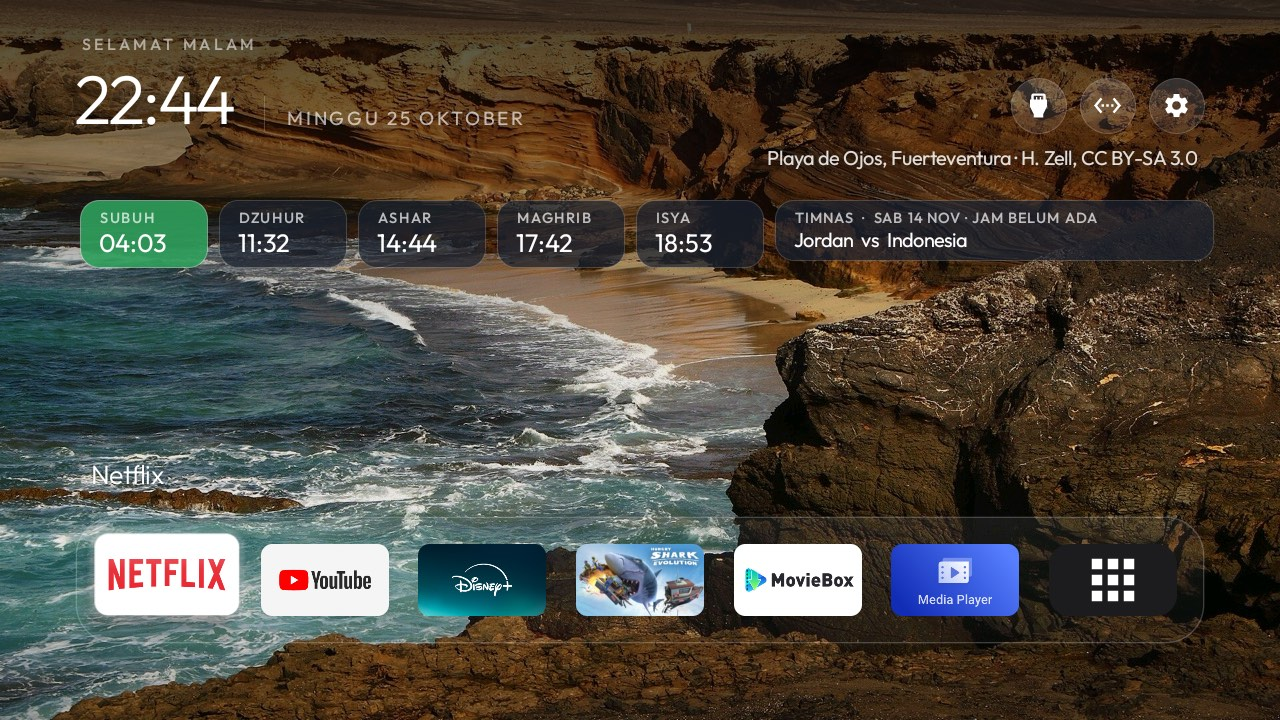
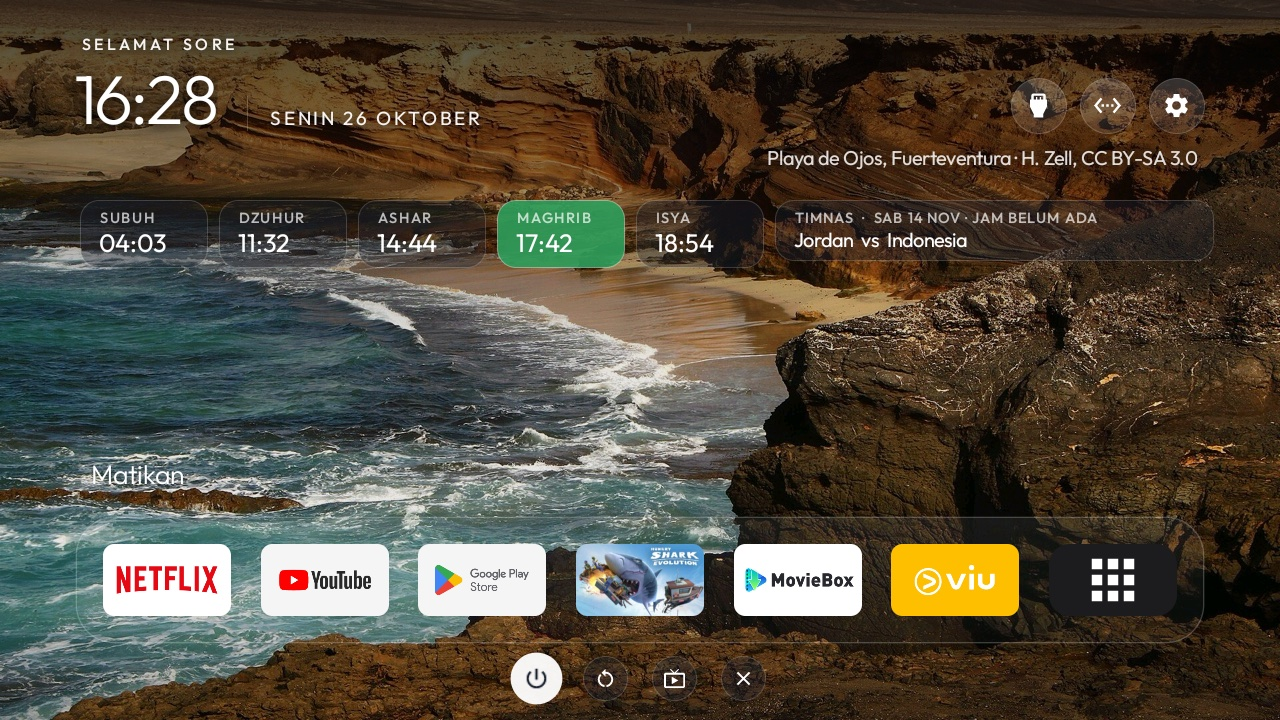
README: the power row, and a new screenshot with it
Section 4c describes power_row and tv_app, and the TV button on a TCL G06. The front image shows the row
under the dock, taken with a CC BY-SA landscape wallpaper instead of the family's photos.

diff --git a/README.md b/README.md
@@ -10,13 +10,14 @@ the row's order on the TV itself. Built for a family in Indonesia on top of the
 An older layout is still there: a carousel of photos from a shared Google Photos album, taken on today's date
 in earlier years.
 
-![Family Home on a TCL 32" G06 with minimal_home: prayer times and football under the clock, one row of apps with the app library as its last tile. On the TV the wallpapers are the family's own photos](docs/fork/family-home.jpg)
+![Family Home on a TCL 32" G06 with minimal_home: prayer times and football under the clock, one row of apps with the app library as its last tile, and the power row under it with Standby focused. On the TV the wallpapers are the family's own photos](docs/fork/family-home.jpg)
 
 What it adds to the cleanyourtv launcher:
 
 | Part | What it does | Network |
 |---|---|---|
 | Minimal Home (`minimal_home`, `library_tile`) | One row of apps over the family's own photos, a small name above it, the app library as the last tile: a grid of every TV app that scrolls down. Hold OK on a tile to reorder. See section 4b. | none |
+| Power row (`power_row`, `tv_app`) | Round buttons under the row: standby, restart, the TV tuner and close the last app. Restart and close go through Settings, which the key helper presses for you (an app may not restart the TV or stop another app); the TV still asks before it restarts. Hold OK on a tile also offers Force stop. See section 4c. | none |
 | One step per volume press (`volume_step`) | Vol+ and Vol- move one step per press and repeat while held. On TCL G06 the key helper made each press move two. | none |
 | Your photos in the screensaver (add-on `photo-screensaver`, `sync.sh`) | The same photos as Home, three at a time as prints, with the clock. | none |
 | Photo carousel (`photo_panel`), older layout | Four cards above the dock: three narrow and one wide with the date the photo was taken. A new picture comes in every 9 seconds and the others move left. | none in the launcher |
@@ -41,6 +42,8 @@ Proyek ini mengubah home Android TV menjadi layar keluarga:
   diatur sendiri di TV (tahan OK, lalu Pindahkan atau Tambah ke Beranda).
 - **Jadwal sholat** 5 waktu di bawah jam. Dihitung di TV dengan metode Kemenag, tanpa internet.
 - **Jadwal bola** Timnas, Liga 1 dan Liga Champions, berganti otomatis, dengan skor live.
+- **Tombol bulat** di bawah baris aplikasi: standby, nyalakan ulang, TV digital, dan tutup paksa aplikasi
+  terakhir (misalnya YouTube yang tidak mau tersambung internet). Tahan OK di tile juga ada Paksa berhenti.
 - **Volume** naik/turun satu langkah per tekan di TCL G06, dan terus berubah kalau tombol ditahan.
 - Pilihan lama: **carousel foto** dari album Google Photos bersama ("hari ini, tahun lalu").
 
@@ -165,6 +168,26 @@ bash addons/photo-screensaver/sync.sh work/family-photos/wallpapers        # sam
 ```
 
 Hold OK on a tile and pick Move to change the order of the row; the app library tile stays last.
+
+### 4c. Optional: the power row
+
+With `minimal_home`, add `"power_row": true` to the theme for four round buttons under the row of apps:
+
+| Button | What it does |
+|---|---|
+| Standby | The same as a short press of Power. A real shutdown needs a system permission no app has. |
+| Restart | Opens Settings > System and selects Restart; the TV asks "Restart now?" with Cancel focused. |
+| TV | Opens `tv_app`: a package, or `input:<id>` for a tuner, as in `app_keys`. |
+| Close last app | Force stops the app opened last from Home or a remote button, then comes back Home. |
+
+Restart and Close need the key helper (HomeKeyService) on, and they press Settings items by their names in
+English or Indonesian; in another language those two buttons do nothing. The helper may now read the screen
+(`canRetrieveWindowContent`) for this. On a TCL G06 the remote's TV button (keycode 4001) can open the tuner too:
+
+```bash
+tools/tv.py "dumpsys tv_input" | grep -o 'id=[^ ,]*TDTVInputService[^ ,]*'   # the tuner's input id
+# config.json: "tv_app": "input:<id>", and in app_keys: "4001:input:<id>"
+```
 
 ### 5. Answer the card prompts and close ADB
 
